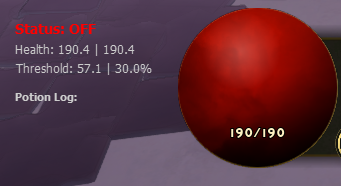
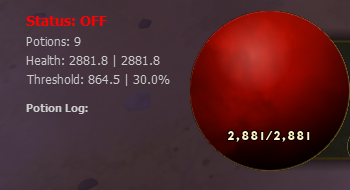
Add potion count check
- Read potion count from memory. Use potion only when count > 0.
- Overlay: show "Potions:" value.
- Console log: include remaining potions on each use.
- Standalone script potion_count.py for testing.

diff --git a/src/memory_reader.py b/src/memory_reader.py
@@ -223,6 +223,8 @@ class MemoryReader(QObject):
     process_attached = pyqtSignal()
     # Signal emitted when process death is detected
     process_died = pyqtSignal()
+    # Signal emitted when potion count is read (-1 for read failure)
+    potion_count_updated = pyqtSignal(int)
     
     def __init__(self, config, process_name, potion_key="r"):
         """
@@ -252,6 +254,8 @@ class MemoryReader(QObject):
         self._process_id = None
         self._last_max_health_chain = None
         self._last_current_health_chain = None
+        self._potion_count_initialized = False
+        self._last_potion_chain = None
         self._attachment_notified = False  # Track if we've notified about current attachment
         self._last_chain_resolution_attempt = 0.0
         self._chain_resolution_cooldown = 1.0  # 1 second cooldown for chain resolution
@@ -273,9 +277,11 @@ class MemoryReader(QObject):
             self._module_base = None
             self._max_health_initialized = False
             self._current_health_initialized = False
+            self._potion_count_initialized = False
             self._process_id = None
             self._last_max_health_chain = None
             self._last_current_health_chain = None
+            self._last_potion_chain = None
             self._attachment_notified = False  # Reset so we can notify again on next attachment
     
     def start(self):
@@ -309,9 +315,11 @@ class MemoryReader(QObject):
         self._module_base = None
         self._max_health_initialized = False
         self._current_health_initialized = False
+        self._potion_count_initialized = False
         self._process_id = None
         self._last_max_health_chain = None
         self._last_current_health_chain = None
+        self._last_potion_chain = None
         self._attachment_notified = False
         if self._process_running:
             self.process_died.emit()
@@ -551,6 +559,69 @@ class MemoryReader(QObject):
         except Exception as e:
             print(f"[ERROR] Error initializing current health pointer: {e}")
     
+    def _initialize_potion_pointer(self):
+        """
+        Initialize and print potion pointer debug information once.
+        Prints all debug info when first successfully reading potion count.
+        """
+        if self._potion_count_initialized:
+            return
+        
+        current_time = time.time()
+        if current_time - self._last_chain_resolution_attempt < self._chain_resolution_cooldown:
+            return
+        self._last_chain_resolution_attempt = current_time
+        
+        try:
+            if self._pm is None or self._module_base is None:
+                return
+            
+            print("Potion pointer:")
+            print(f"[OK] Module: {self.process_name} | Base address: {hex(self._module_base)}")
+            
+            base_offset_str = self.config.get_potion_base_offset()
+            offsets_str = self.config.get_potion_offsets()
+            
+            base_offset = parse_address(base_offset_str)
+            if base_offset == 0:
+                print("[ERROR] Invalid potion base offset")
+                return
+            
+            offsets = parse_offsets(offsets_str)
+            if not offsets:
+                print("[ERROR] Invalid potion offsets")
+                return
+            
+            base_address = self._module_base + base_offset
+            
+            try:
+                final_address, chain_addresses = read_pointer_chain(self._pm, base_address, offsets, return_chain=True)
+                
+                current_pointer_path = tuple(chain_addresses[:-1])
+                if self._last_potion_chain != current_pointer_path:
+                    print("[DEBUG] Potion pointer chain resolved:")
+                    print(f"  Step 0: addr=0x{chain_addresses[0]:X}")
+                    for i, (addr, offset) in enumerate(zip(chain_addresses[1:], offsets), 1):
+                        print(f"  Step {i}: addr=0x{addr:X} offset=0x{offset:X}")
+                    self._last_potion_chain = current_pointer_path
+                
+                print(f"[OK] Final address: {hex(final_address)}")
+            except RuntimeError as e:
+                print(f"[ERROR] {e}")
+                return
+            
+            try:
+                potion_count = read_memory_int(self._pm, final_address)
+                if potion_count >= 0:
+                    print(f"[RESULT] Player Potion Count: {potion_count}")
+                    self._potion_count_initialized = True
+                    print("-------------")
+            except Exception as e:
+                print(f"[ERROR] Failed to read final int value: {e}")
+                
+        except Exception as e:
+            print(f"[ERROR] Error initializing potion pointer: {e}")
+    
     def _read_current_health(self) -> float:
         """
         Read current health using pointer chain.
@@ -605,14 +676,46 @@ class MemoryReader(QObject):
     
     def _read_potion_count(self) -> int:
         """
-        Placeholder for reading potion count.
-        Currently returns 0 and does not affect the program.
+        Read potion count using pointer chain.
         
         Returns:
-            Potion count (int)
+            Potion count (int >= 0) on success, -1 on read failure
         """
-        # Placeholder - not implemented yet
-        return 0
+        try:
+            if self._pm is None or self._module_base is None:
+                return -1
+            
+            if not self._potion_count_initialized:
+                self._initialize_potion_pointer()
+            
+            base_offset_str = self.config.get_potion_base_offset()
+            offsets_str = self.config.get_potion_offsets()
+            
+            base_offset = parse_address(base_offset_str)
+            if base_offset == 0:
+                return -1
+            
+            offsets = parse_offsets(offsets_str)
+            if not offsets:
+                return -1
+            
+            base_address = self._module_base + base_offset
+            
+            final_address = read_pointer_chain(self._pm, base_address, offsets)
+            
+            potion_count = read_memory_int(self._pm, final_address)
+            if potion_count < 0:
+                return -1
+            return potion_count
+        except RuntimeError:
+            return -1
+        except Exception as e:
+            if not self._potion_count_initialized:
+                current_time = time.time()
+                if current_time - self._last_error_print_time >= self._error_print_cooldown:
+                    print(f"[ERROR] Error reading potion count: {e}")
+                    self._last_error_print_time = current_time
+            return -1
     
     def _use_potion(self):
         """Send potion keypress. Ensures game window is focused first."""
@@ -661,14 +764,18 @@ class MemoryReader(QObject):
                     # Emit signal for overlay to update display
                     self.current_health_updated.emit(current_health)
                 
+                # Read potion count using pointer chain
+                potion_count = self._read_potion_count()
+                self.potion_count_updated.emit(potion_count)
+                
                 # Potion logic
-                if max_health > 0 and current_health >= 0:
+                if max_health > 0 and current_health >= 0 and potion_count > 0:
                     threshold_percentage = self.config.get_health_threshold()
                     threshold_value = (max_health * threshold_percentage) / 100.0
                     current_time = time.time()
                     time_since_last_potion = current_time - self._last_potion_time
                     
-                    # Check if health is below threshold
+                    # Check if health is below threshold and player has potions
                     if current_health < threshold_value:
                         # Potion logic: wait 500ms between potion drinks
                         if time_since_last_potion >= self._potion_cooldown:
@@ -682,7 +789,8 @@ class MemoryReader(QObject):
                             # Print to console with same format as overlay
                             timestamp = datetime.now().strftime("%H:%M:%S")
                             health_amount = int(current_health)
-                            print(f"[LOG] {timestamp} - {health_amount} - {health_percentage:.1f}%")
+                            remaining = potion_count - 1
+                            print(f"[LOG] {timestamp} - {health_amount} - {health_percentage:.1f}% - {remaining} potions remaining")
                 
                 # Check every 10ms
                 time.sleep(self.MEMORY_READ_INTERVAL)

diff --git a/src/standalone/potion_count.py b/src/standalone/potion_count.py
@@ -1,0 +1,77 @@
+import pymem
+import pymem.process
+import sys
+
+PROCESS_NAME = "ProjectAlpha-Win64-Shipping.exe"
+
+# Cheat Engine pointer info (Potion count)
+BASE_OFFSET = 0x064D8FD0
+OFFSETS = [
+    0x30,
+    0x8A8,
+    0xAC
+]
+
+
+def resolve_pointer_chain(pm, base_address, offsets):
+    """
+    Resolves a multi-level pointer chain and returns the final address.
+    """
+    addr = base_address
+
+    for level, offset in enumerate(offsets):
+        try:
+            addr = pm.read_ulonglong(addr)
+        except pymem.exception.MemoryReadError:
+            raise RuntimeError(
+                f"Failed to read pointer at level {level} (address: {hex(addr)})"
+            )
+
+        addr += offset
+
+    return addr
+
+
+def main():
+    try:
+        pm = pymem.Pymem(PROCESS_NAME)
+    except pymem.exception.ProcessNotFound:
+        print(f"[ERROR] Process '{PROCESS_NAME}' not found.")
+        sys.exit(1)
+
+    print(f"[OK] Attached to {PROCESS_NAME} (PID: {pm.process_id})")
+
+    try:
+        module = pymem.process.module_from_name(
+            pm.process_handle,
+            PROCESS_NAME
+        )
+    except Exception as e:
+        print("[ERROR] Failed to get module base address:", e)
+        sys.exit(1)
+
+    module_base = module.lpBaseOfDll
+    print(f"[OK] Module base address: {hex(module_base)}")
+
+    base_address = module_base + BASE_OFFSET
+    print(f"[OK] Base pointer address: {hex(base_address)}")
+
+    try:
+        final_address = resolve_pointer_chain(pm, base_address, OFFSETS)
+    except RuntimeError as e:
+        print("[ERROR]", e)
+        sys.exit(1)
+
+    print(f"[OK] Final address: {hex(final_address)}")
+
+    try:
+        potion_count = pm.read_int(final_address)
+    except pymem.exception.MemoryReadError:
+        print("[ERROR] Failed to read potion count value.")
+        sys.exit(1)
+
+    print(f"[RESULT] Player Potion Count: {potion_count}")
+
+
+if __name__ == "__main__":
+    main()

diff --git a/src/config.py b/src/config.py
@@ -17,6 +17,8 @@ class Config:
     DEFAULT_MAX_HEALTH_OFFSETS = "0x30,0x940,0x5D0,0x2F0,0x370"
     DEFAULT_CURRENT_HEALTH_BASE_OFFSET = "0x064D8FD0"
     DEFAULT_CURRENT_HEALTH_OFFSETS = "0x30,0x8C8,0xB0,0x2F0,0x368"
+    DEFAULT_POTION_BASE_OFFSET = "0x064D8FD0"
+    DEFAULT_POTION_OFFSETS = "0x30,0x8A8,0xAC"
     DEFAULT_HOTKEY_LOCK = "home"
     DEFAULT_HOTKEY_TOGGLE = "insert"
     DEFAULT_HOTKEY_CLOSE = "end"
@@ -55,7 +57,9 @@ class Config:
             'max_health_base_offset': self.DEFAULT_MAX_HEALTH_BASE_OFFSET,
             'max_health_offsets': self.DEFAULT_MAX_HEALTH_OFFSETS,
             'current_health_base_offset': self.DEFAULT_CURRENT_HEALTH_BASE_OFFSET,
-            'current_health_offsets': self.DEFAULT_CURRENT_HEALTH_OFFSETS
+            'current_health_offsets': self.DEFAULT_CURRENT_HEALTH_OFFSETS,
+            'potion_base_offset': self.DEFAULT_POTION_BASE_OFFSET,
+            'potion_offsets': self.DEFAULT_POTION_OFFSETS
         }
         
         try:
@@ -107,6 +111,16 @@ class Config:
         """Get current health offsets as comma-separated hex string."""
         return self.config.get('POINTERCHAINS', 'current_health_offsets',
                               fallback=self.DEFAULT_CURRENT_HEALTH_OFFSETS)
+    
+    def get_potion_base_offset(self):
+        """Get potion base offset (hex string)."""
+        return self.config.get('POINTERCHAINS', 'potion_base_offset',
+                              fallback=self.DEFAULT_POTION_BASE_OFFSET)
+    
+    def get_potion_offsets(self):
+        """Get potion offsets as comma-separated hex string."""
+        return self.config.get('POINTERCHAINS', 'potion_offsets',
+                              fallback=self.DEFAULT_POTION_OFFSETS)
     
     def get_hotkey_lock(self):
         """Get hotkey for lock/unlock overlay."""

diff --git a/src/overlay.py b/src/overlay.py
@@ -31,6 +31,7 @@ class OverlayWindow(QWidget):
         self._potion_log: List[Dict] = []  # List of {timestamp, health_amount, percentage}
         self._current_health = 0.0
         self._max_health = 0.0
+        self._potion_count = -1  # Sentinel for unknown/failed read
         
         self._init_ui()
         self._setup_window_properties()
@@ -47,6 +48,11 @@ class OverlayWindow(QWidget):
         self.status_label.setStyleSheet("font-size: 14px; font-weight: bold; background-color: transparent;")
         self._update_status_display()
         layout.addWidget(self.status_label)
+        
+        # Potions label
+        self.potions_label = QLabel("Potions: --")
+        self.potions_label.setStyleSheet("font-size: 12px; color: #CCCCCC; background-color: transparent;")
+        layout.addWidget(self.potions_label)
         
         # Combined health label
         self.health_label = QLabel("Health: -- | --")
@@ -206,6 +212,23 @@ class OverlayWindow(QWidget):
         """
         self._max_health = max_health if max_health > 0 else 0.0
         self._update_health_display()
+    
+    def _update_potion_display(self):
+        """Update the potions label."""
+        if self._potion_count < 0:
+            self.potions_label.setText("Potions: --")
+        else:
+            self.potions_label.setText(f"Potions: {self._potion_count}")
+    
+    def set_potion_count(self, value: int):
+        """
+        Update potion count display.
+        
+        Args:
+            value: Potion count (>= 0) or sentinel (< 0) for read failure
+        """
+        self._potion_count = value
+        self._update_potion_display()
     
     def add_potion_log_entry(self, health_amount: float, percentage: float):
         """

diff --git a/src/main.py b/src/main.py
@@ -317,6 +317,9 @@ def main():
     # Connect current health signal to overlay
     memory_reader.current_health_updated.connect(overlay.set_current_health)
     
+    # Connect potion count signal to overlay
+    memory_reader.potion_count_updated.connect(overlay.set_potion_count)
+    
     # Register hotkeys (will print hotkeys inside register_hotkeys())
     hotkey_manager = HotkeyManager(overlay, app, config)
     hotkey_manager.register_hotkeys()

diff --git a/readme.md b/readme.md
@@ -3,7 +3,7 @@
 [![Dwarven Realms](https://img.shields.io/badge/Dwarven%20Realms%20Version-5.3.2.0-purple)]()
 [![Windows](https://img.shields.io/badge/Platform-Windows-blue)]()
 
-A game tool for Dwarven Realms that automatically uses potions when HP drops below a configurable threshold. Attaches to the game process via pymem and reads player health data from memory using iterative pointer dereferencing with pointer chain resolution. Memory reading runs in a separate background thread with thread-safe operation. Features a PyQt5 overlay window with transparency and always-on-top behavior, and is also thread-safe for responsiveness. 
+A game tool for Dwarven Realms that automatically uses potions when HP drops below a configurable threshold and the player has at least one potion. Attaches to the game process via pymem and reads player health and potion count from memory using iterative pointer dereferencing. Memory reading runs in a separate background thread with thread-safe operation. Features a PyQt5 overlay window with transparency and always-on-top behavior and is also thread-safe for responsiveness. 
 
 **⚠ Warning**: This tool is intended for **offline use only**. While it may work online, use it at your own risk and discretion.
 
@@ -19,12 +19,13 @@ A game tool for Dwarven Realms that automatically uses potions when HP drops bel
 
 <p align="center">
   <img src="imgs/OverlayOFF.png" alt="Overlay OFF" width="45%"/>
-  <img src="imgs/OverlayON.png" alt="Overlay ON" width="43.5%"/>
+  <img src="imgs/OverlayON.png" alt="Overlay ON" width="45%"/>
 </p>
 
-* **Auto Potion**: Automatically triggers a potion when HP falls below a set percentage.
-* **Potion log**: The overlay displays a log of recent potion uses, showing HP values and timestamps for each use.
-* **Overlay UI**: Movable, lockable PyQt5 overlay showing status, HP, and logs.
+* **Auto Potion**: Automatically triggers a potion when HP falls below a set percentage and the player has at least one potion (prevents spamming when out of potions).
+* **Potion count display**: The overlay shows the current potion count.
+* **Potion log**: The overlay displays a log of recent potion uses, showing HP values and timestamps for each use. The console log for each use also shows remaining potion count.
+* **Overlay UI**: Movable, lockable PyQt5 overlay showing status, potions, HP, and logs.
 * **Customizable Hotkeys**: Easily change hotkeys for toggling ON/OFF, locking, and closing the overlay.
 * **Safe & Configurable**: All settings in a user-friendly config file.
 
